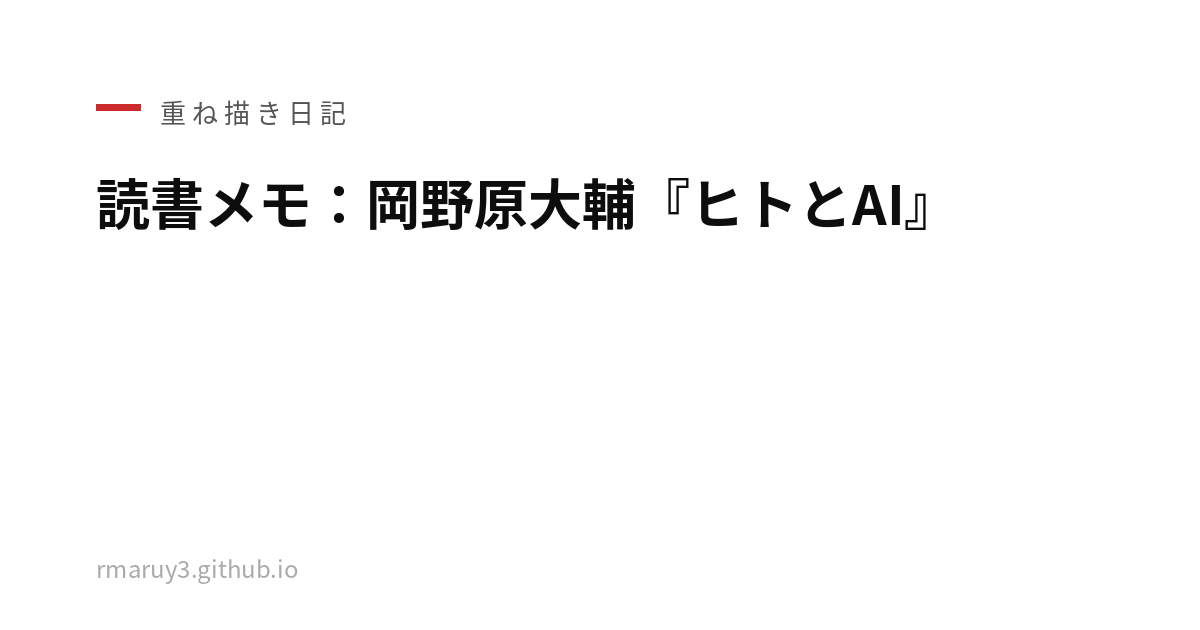
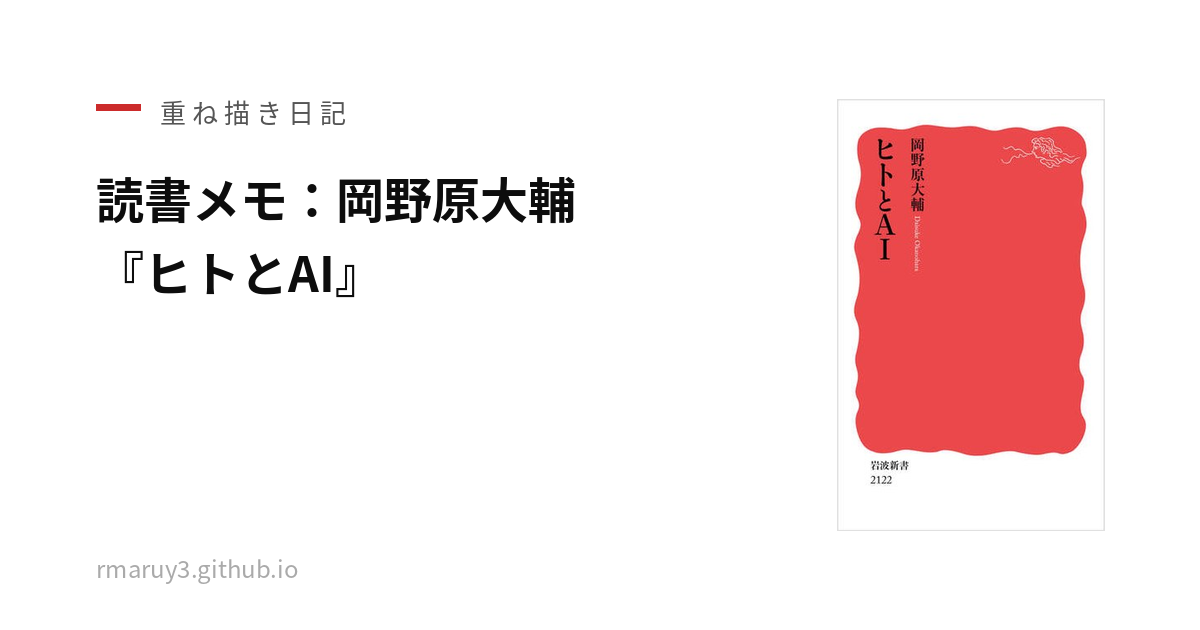
ogp

Changed region(s): [[0.0617, 0.181, 0.925, 0.7841], [0.0925, 0.3921, 0.3083, 0.4825]]

diff --git a/scripts/generate_book_ogp.py b/scripts/generate_book_ogp.py
@@ -1,0 +1,125 @@
+"""
+generate_book_ogp.py — 書影入りのOGPカードを生成する（読書メモ用）
+
+generate_post_ogp.py のB-2デザイン（白背景／短い赤ライン＋ラベル／黒タイトル／下部URL）に、
+右側に書影を配置したバリエーション。読書メモのように「本の顔」を見せたい記事で使う。
+
+使い方（リポジトリのルートで実行）:
+    python scripts/generate_book_ogp.py _posts/2026-07-25-post.md assets/images/hito-to-ai-cover.jpg
+
+  - 記事の front matter から title を読み、カードを
+    assets/images/ogp/<記事ファイル名>.png に出力する（既存ファイルは上書き）。
+  - front matter に image: が無ければ追記する（既にあれば触らない）。
+  - generate_post_ogp.py は image: がある記事をスキップするので、
+    このスクリプトで作ったカードがGitHub Actionsに上書きされることはない。
+"""
+
+import sys
+from pathlib import Path
+
+from PIL import Image, ImageDraw
+
+from generate_post_ogp import (  # 同じディレクトリの共通処理を再利用
+    ACCENT,
+    BG,
+    FG,
+    H,
+    LABEL_GRAY,
+    LABEL_Y,
+    PAD_X,
+    URL_BASELINE_PAD,
+    URL_GRAY,
+    W,
+    draw_tracked,
+    get_title,
+    insert_image,
+    load_font,
+    split_front_matter,
+    wrap_cjk,
+)
+
+COVER_H = 430           # 書影の高さ
+COVER_GAP = 64          # 書影とテキスト列のあいだの余白
+BORDER = "#e0e0e0"      # 書影の縁取り（白い表紙でも輪郭が出るように）
+
+
+def render_book_card(title, cover_path, out_path, label="重ね描き日記"):
+    img = Image.new("RGB", (W, H), BG)
+    d = ImageDraw.Draw(img)
+
+    # --- 書影（右側・縦中央） ---
+    cover = Image.open(cover_path).convert("RGB")
+    cover_w = round(cover.width * COVER_H / cover.height)
+    cover = cover.resize((cover_w, COVER_H), Image.LANCZOS)
+    cover_x = W - PAD_X - cover_w
+    cover_y = (H - COVER_H) // 2
+    img.paste(cover, (cover_x, cover_y))
+    d.rectangle(
+        [cover_x - 1, cover_y - 1, cover_x + cover_w, cover_y + COVER_H],
+        outline=BORDER,
+        width=1,
+    )
+
+    # --- 短い赤ライン ＋ ラベル ---
+    label_font = load_font(26, bold=False)
+    d.rectangle([PAD_X, LABEL_Y + 12, PAD_X + 44, LABEL_Y + 18], fill=ACCENT)
+    draw_tracked(d, (PAD_X + 64, LABEL_Y), label, label_font, LABEL_GRAY, 6)
+
+    # --- URL（下端） ---
+    url_font = load_font(24, bold=False)
+    url_y = H - URL_BASELINE_PAD - 24
+    d.text((PAD_X, url_y), "rmaruy3.github.io", font=url_font, fill=URL_GRAY)
+
+    # --- タイトル（書影の左側に収まるよう折り返し・自動縮小） ---
+    title_top = LABEL_Y + 26 + 44
+    avail_h = url_y - 40 - title_top
+    max_w = cover_x - COVER_GAP - PAD_X
+    for size in (48, 44, 40, 36):
+        font = load_font(size, bold=True)
+        # 『書名』が行をまたぐと読みにくいので、収まらない場合は『の前で改行する
+        text = title
+        if "『" in title and d.textlength(title, font=font) > max_w:
+            head, _, tail = title.partition("『")
+            if d.textlength(head, font=font) <= max_w and d.textlength("『" + tail, font=font) <= max_w:
+                text = head + "\n『" + tail
+        lines = wrap_cjk(d, text, font, max_w)
+        line_h = int(size * 1.55)
+        if len(lines) * line_h <= avail_h and len(lines) <= 5:
+            break
+    else:
+        lines = lines[:5]
+        lines[-1] = lines[-1][:-1] + "…"
+
+    y = title_top
+    for line in lines:
+        d.text((PAD_X, y), line, font=font, fill=FG)
+        y += line_h
+
+    out_path.parent.mkdir(parents=True, exist_ok=True)
+    img.save(out_path)
+
+
+def main():
+    if len(sys.argv) != 3:
+        sys.exit(__doc__)
+    post = Path(sys.argv[1])
+    cover = Path(sys.argv[2])
+    if not post.is_file() or not cover.is_file():
+        sys.exit("記事ファイルまたは書影ファイルが見つかりません")
+
+    text = post.read_text(encoding="utf-8")
+    fm, _ = split_front_matter(text)
+    if fm is None:
+        sys.exit("front matter が見つかりません")
+
+    out = Path("assets/images/ogp") / (post.stem + ".png")
+    render_book_card(get_title(fm.group(1)), cover, out)
+    print(f"生成: {out}")
+
+    if "\nimage:" not in "\n" + fm.group(1):
+        post.write_text(insert_image(text, fm, "/" + out.as_posix()), encoding="utf-8")
+        print(f"front matter に image: を追記しました")
+
+
+if __name__ == "__main__":
+    main()
